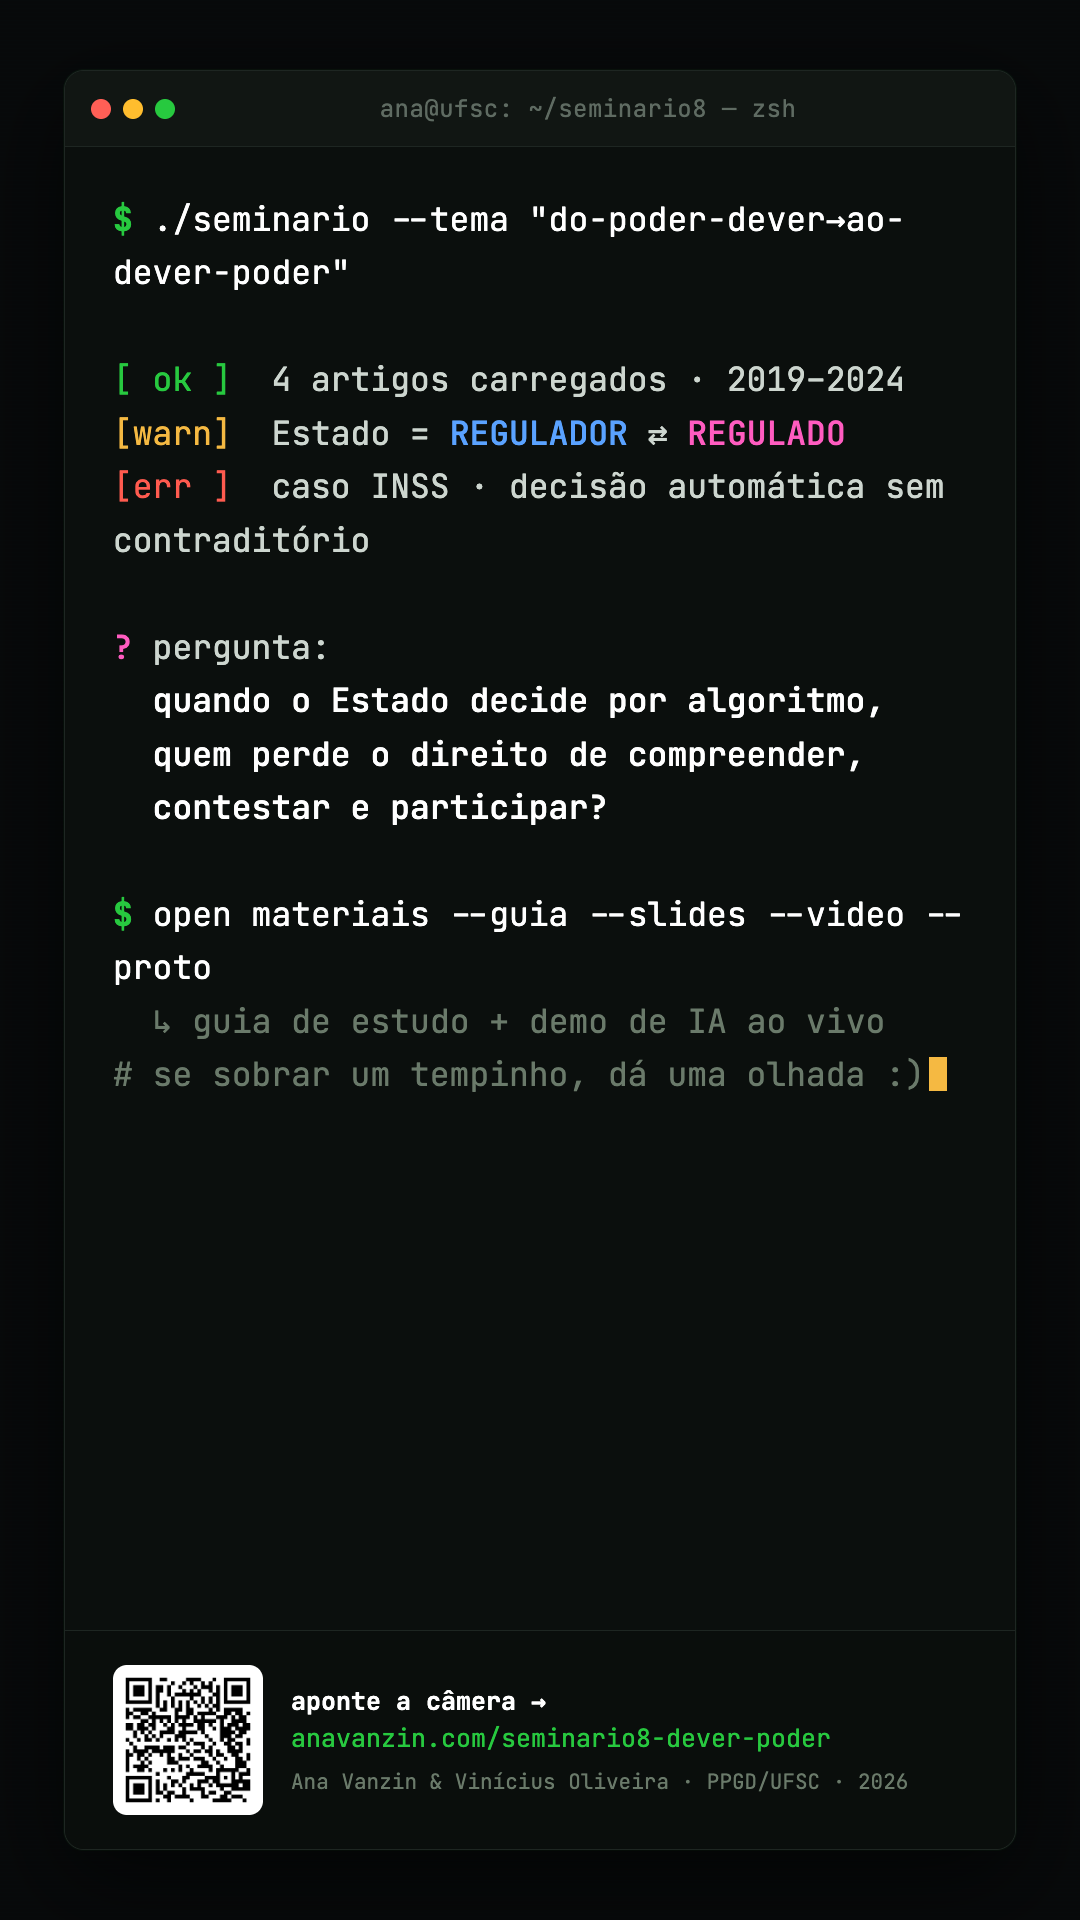
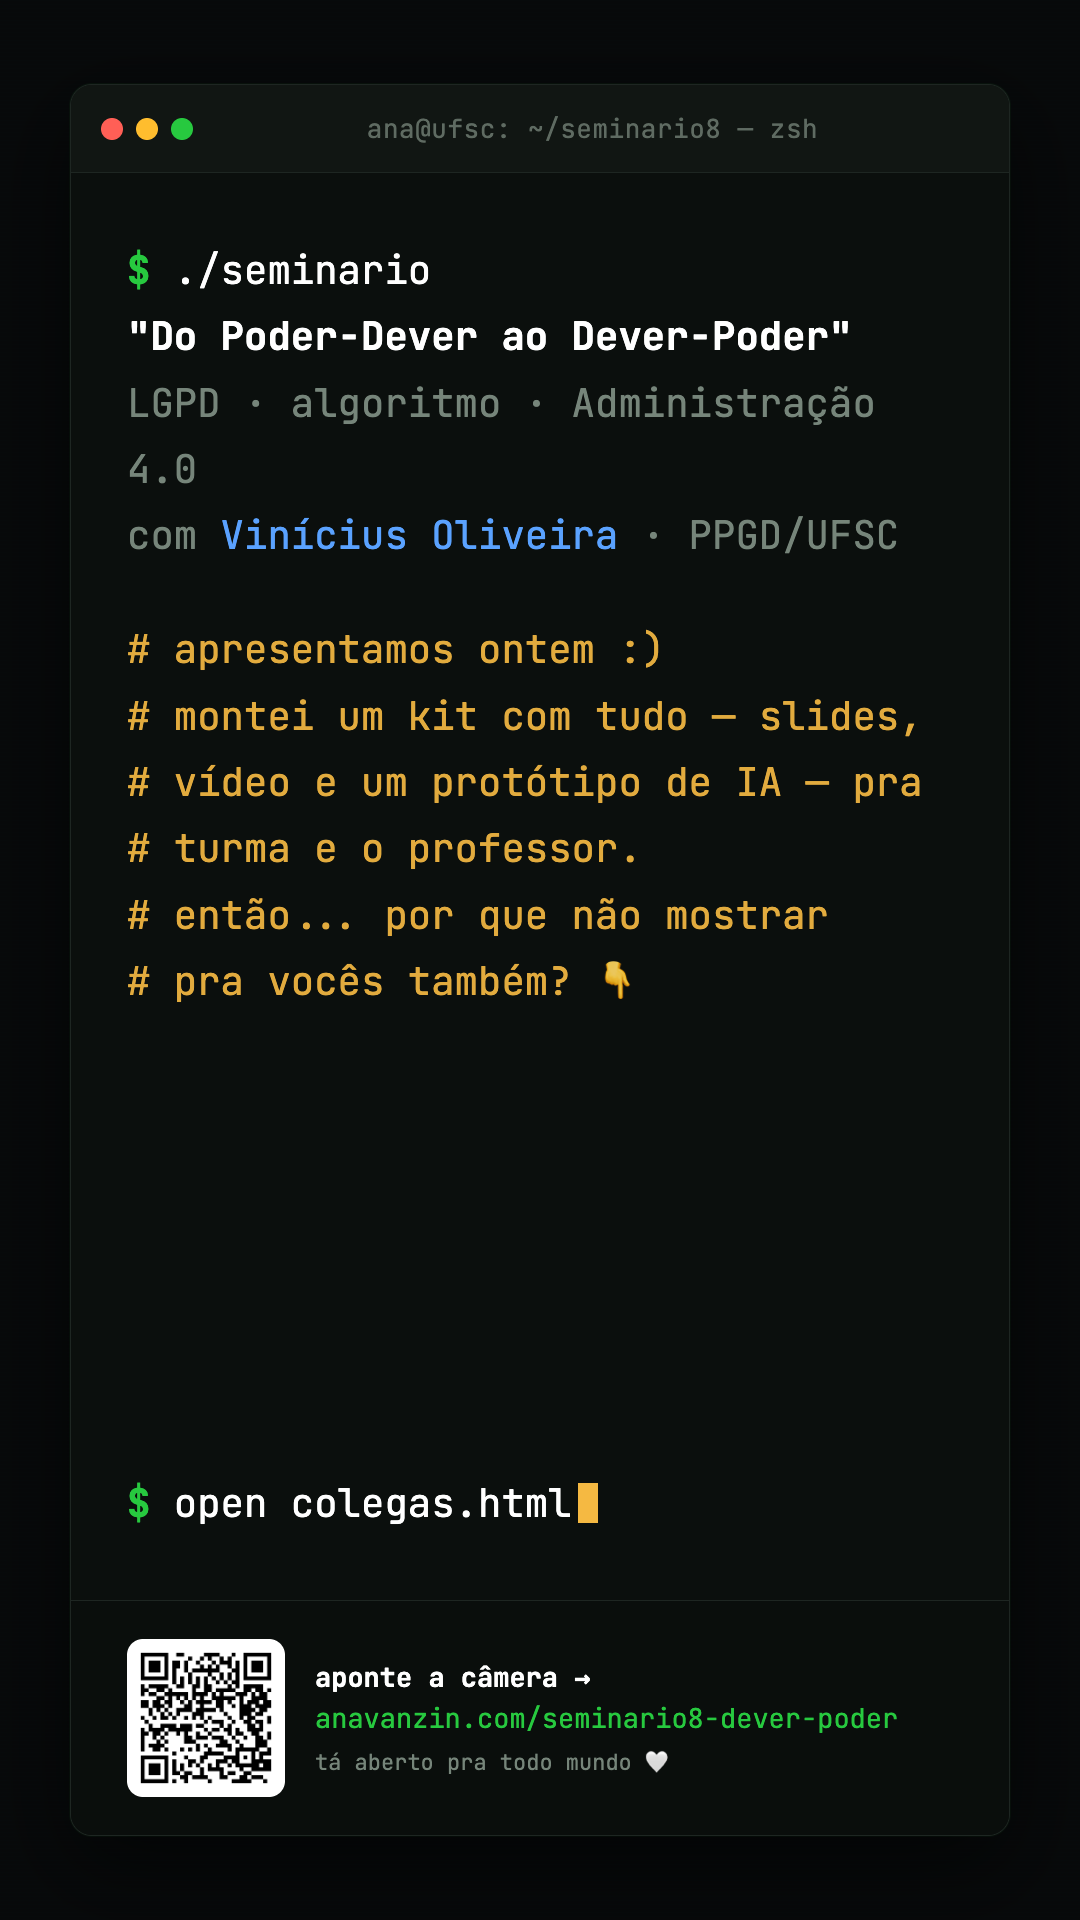
refactor(story): simpler terminal card with casual post-seminar message
Versão mais limpa do story terminal: menos ruído (sem [ok]/[warn]/[err]),
mensagem descontraída pós-apresentação (com Vinícius, o kit, "por que não
mostrar pra vocês"). QR/link → colegas.html.

diff --git a/story-terminal.html b/story-terminal.html
@@ -10,41 +10,39 @@
   *{box-sizing:border-box;margin:0;padding:0}
   html,body{width:1080px;height:1920px;overflow:hidden}
   :root{
-    --green:#27c93f; --amber:#f5b942; --red:#ff5b4f; --blue:#5aa2ff; --pink:#ff5cc0;
-    --txt:#cdd6cf; --dim:#6a7a6a; --mono:'JetBrains Mono',ui-monospace,monospace;
+    --green:#27c93f; --amber:#f5b942; --blue:#5aa2ff; --pink:#ff5cc0;
+    --txt:#cdd6cf; --dim:#76857a; --mono:'JetBrains Mono',ui-monospace,monospace;
   }
   body{
     width:1080px;height:1920px;
     background:repeating-linear-gradient(0deg,#07090a 0,#07090a 3px,#080b0c 4px);
-    font-family:var(--mono);padding:70px 64px;display:flex;flex-direction:column;
+    font-family:var(--mono);padding:84px 70px;display:flex;flex-direction:column;
   }
   .win{
     flex:1;display:flex;flex-direction:column;
-    background:#0b0f0d;border:1px solid #1e2622;border-radius:20px;overflow:hidden;
+    background:#0b0f0d;border:1px solid #1e2622;border-radius:22px;overflow:hidden;
     box-shadow:0 30px 90px rgba(0,0,0,.6), 0 0 0 1px rgba(39,201,63,.06);
   }
-  .bar{display:flex;align-items:center;gap:12px;padding:22px 26px;background:#111613;border-bottom:1px solid #1e2622}
-  .dot{width:20px;height:20px;border-radius:50%}
+  .bar{display:flex;align-items:center;gap:13px;padding:26px 30px;background:#111613;border-bottom:1px solid #1e2622}
+  .dot{width:22px;height:22px;border-radius:50%}
   .dot.r{background:#ff5f56} .dot.y{background:#ffbd2e} .dot.g{background:#27c93f}
-  .bar .title{flex:1;text-align:center;color:#5f6b62;font-size:24px;letter-spacing:.02em}
-  .body{flex:1;padding:46px 48px;font-size:33px;line-height:1.62;color:var(--txt)}
-  .body .l{white-space:pre-wrap}
+  .bar .title{flex:1;text-align:center;color:#5f6b62;font-size:26px;letter-spacing:.02em}
+  .body{flex:1;padding:64px 56px;font-size:39px;line-height:1.7;color:var(--txt);display:flex;flex-direction:column}
   .pr{color:var(--green);font-weight:700}
   .cmd{color:#fff}
-  .ok{color:var(--green)} .warn{color:var(--amber)} .err{color:var(--red)}
-  .blue{color:var(--blue);font-weight:500} .pink{color:var(--pink);font-weight:500}
-  .com{color:var(--dim)}
-  .q{color:#fff;font-weight:500}
-  .spacer{flex:1}
   .out{color:var(--dim)}
-  .link{color:var(--blue)}
-  .cursor{display:inline-block;width:18px;height:34px;background:var(--amber);vertical-align:-5px;margin-left:4px}
-  .foot{display:flex;align-items:center;gap:28px;padding:34px 48px;border-top:1px solid #1e2622;background:#0a0e0c}
-  .foot img{width:150px;height:150px;background:#fff;border-radius:14px;padding:11px;flex-shrink:0}
-  .foot .ft{font-size:25px;line-height:1.5;color:var(--txt)}
+  .ttl{color:#fff;font-weight:700}
+  .blue{color:var(--blue)} .pink{color:var(--pink)}
+  .com{color:var(--amber);opacity:.92}
+  .gap{height:48px}
+  .spacer{flex:1}
+  .cursor{display:inline-block;width:20px;height:40px;background:var(--amber);vertical-align:-6px;margin-left:6px}
+  .foot{display:flex;align-items:center;gap:30px;padding:38px 56px;border-top:1px solid #1e2622;background:#0a0e0c}
+  .foot img{width:158px;height:158px;background:#fff;border-radius:16px;padding:12px;flex-shrink:0}
+  .foot .ft{font-size:27px;line-height:1.5;color:var(--txt)}
   .foot .ft .b{color:#fff;font-weight:700}
   .foot .ft .u{color:var(--green)}
-  .foot .ft .sig{color:var(--dim);font-size:21px;margin-top:8px}
+  .foot .ft .sig{color:var(--dim);font-size:22px;margin-top:8px}
 </style>
 </head>
 <body>
@@ -54,28 +52,26 @@
       <span class="title">ana@ufsc: ~/seminario8 — zsh</span>
     </div>
     <div class="body">
-<div class="l"><span class="pr">$</span> <span class="cmd">./seminario --tema "do-poder-dever→ao-dever-poder"</span></div>
-<div class="l">&nbsp;</div>
-<div class="l"><span class="ok">[ ok ]</span>  4 artigos carregados · 2019–2024</div>
-<div class="l"><span class="warn">[warn]</span>  Estado = <span class="blue">REGULADOR</span> ⇄ <span class="pink">REGULADO</span></div>
-<div class="l"><span class="err">[err ]</span>  caso INSS · decisão automática sem contraditório</div>
-<div class="l">&nbsp;</div>
-<div class="l"><span class="pink">?</span> pergunta:</div>
-<div class="l"><span class="q">  quando o Estado decide por algoritmo,</span></div>
-<div class="l"><span class="q">  quem perde o direito de compreender,</span></div>
-<div class="l"><span class="q">  contestar e participar?</span></div>
-<div class="l">&nbsp;</div>
-<div class="l"><span class="pr">$</span> <span class="cmd">open materiais --guia --slides --video --proto</span></div>
-<div class="l"><span class="out">  ↳ guia de estudo + demo de IA ao vivo</span></div>
+<div><span class="pr">$</span> <span class="cmd">./seminario</span></div>
+<div><span class="out">  </span><span class="ttl">"Do Poder-Dever ao Dever-Poder"</span></div>
+<div><span class="out">  LGPD · algoritmo · Administração 4.0</span></div>
+<div><span class="out">  com <span class="blue">Vinícius Oliveira</span> · PPGD/UFSC</span></div>
+      <div class="gap"></div>
+<div><span class="com"># apresentamos ontem :)</span></div>
+<div><span class="com"># montei um kit com tudo — slides,</span></div>
+<div><span class="com"># vídeo e um protótipo de IA — pra</span></div>
+<div><span class="com"># turma e o professor.</span></div>
+<div><span class="com"># então... por que não mostrar</span></div>
+<div><span class="com"># pra vocês também?  👇</span></div>
       <div class="spacer"></div>
-<div class="l"><span class="com"># se sobrar um tempinho, dá uma olhada :)</span><span class="cursor"></span></div>
+<div><span class="pr">$</span> <span class="cmd">open colegas.html</span><span class="cursor"></span></div>
     </div>
     <div class="foot">
       <img src="assets/qr-guia.png" alt="QR guia">
       <div class="ft">
         <span class="b">aponte a câmera →</span><br>
         <span class="u">anavanzin.com/seminario8-dever-poder</span>
-        <div class="sig">Ana Vanzin &amp; Vinícius Oliveira · PPGD/UFSC · 2026</div>
+        <div class="sig">tá aberto pra todo mundo 🤍</div>
       </div>
     </div>
   </div>
